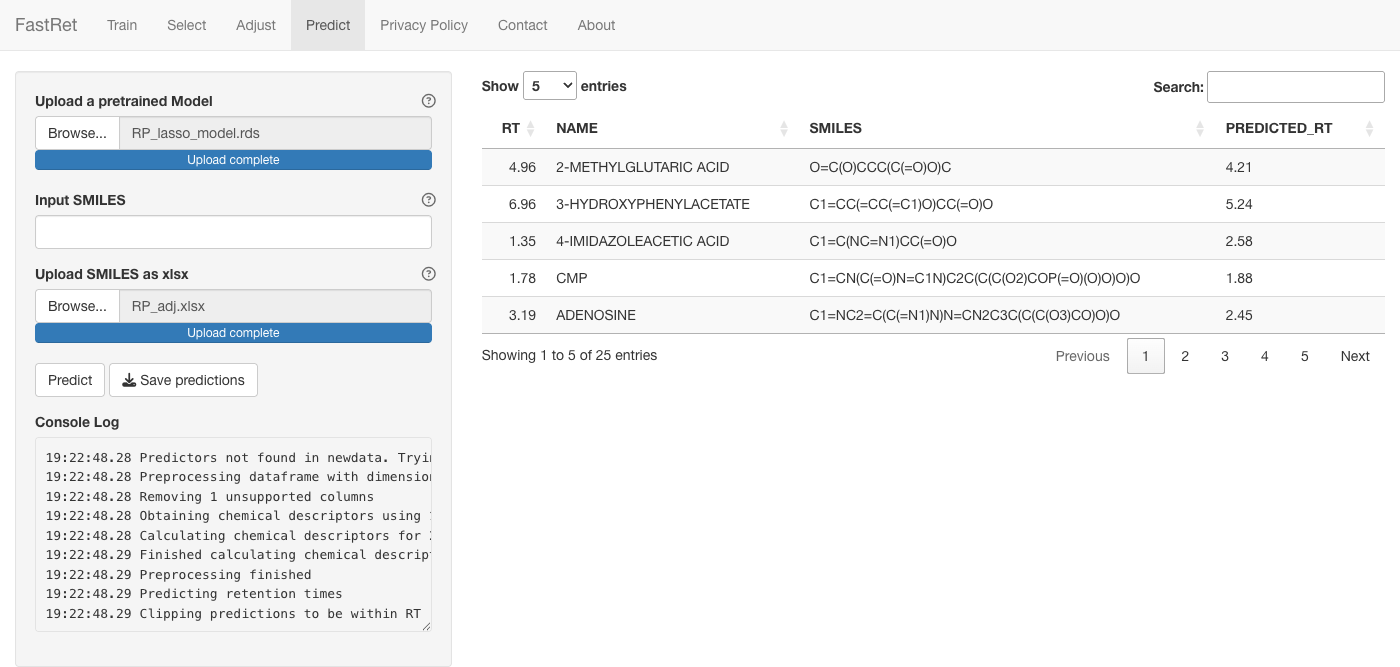
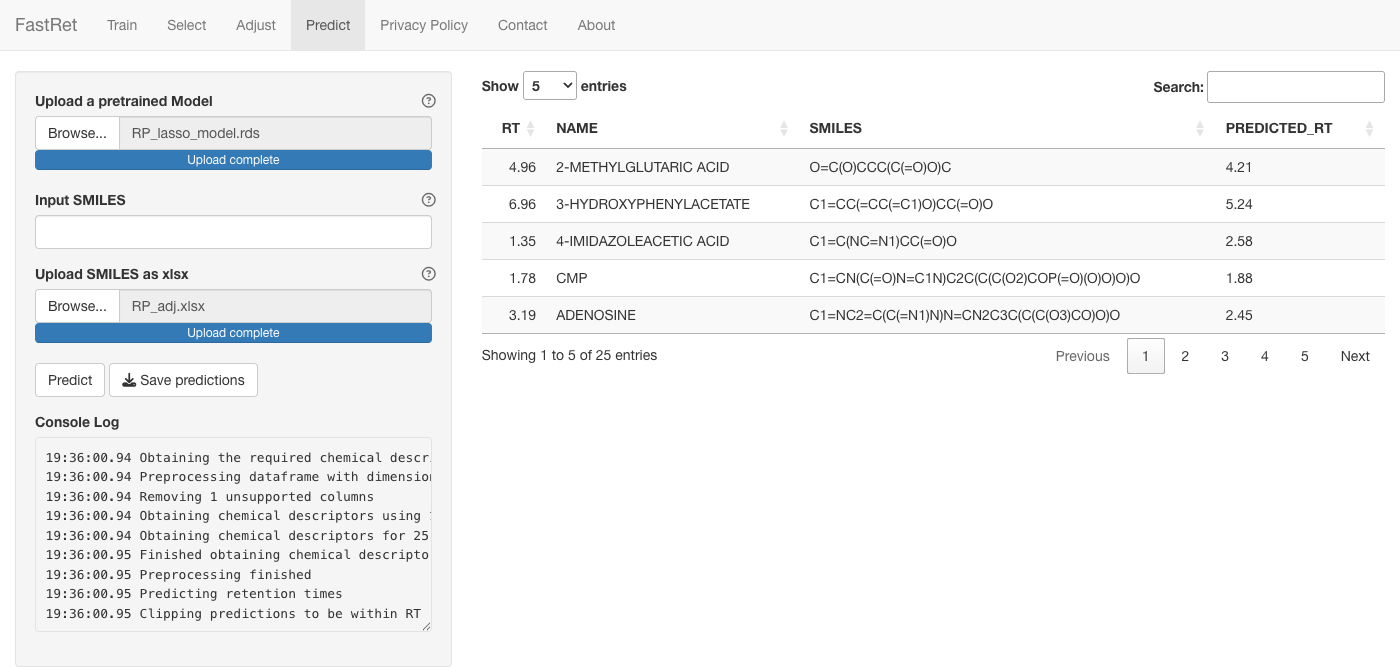
GUI: paper-named SM variants, clearer descriptor logging, polished help texts
- Selective Measuring variants now use the paper names (SMmax, SM1, SM0, SMinf),
  and the variant info button explains each one.
- Reword the descriptor logging so a cached prediction no longer looks like a
  recomputation: predict.frm says "Obtaining the required chemical descriptors
  from the provided SMILES", and getCDs logs "Obtaining"/"Finished obtaining"
  (the "Computing CDs for N new SMILES" line still appears only when rCDK
  actually runs).
- Review all GUI help texts: friendlier wording (drop "you must"/"has to be"),
  fix mismatched HTML headings, format the R snippet and column names as code,
  and fix typos (including the "adustment" file-input label).
- Update the GUI-Usage vignette and screenshots accordingly.

Changed region(s): [[0.0614, 0.6597, 0.3071, 0.9295], [0.1843, 0.6597, 0.3071, 0.6897]]

diff --git a/NEWS.md b/NEWS.md
@@ -57,9 +57,14 @@ GUI:
    console logs" checkboxes were removed), including a new console-log box for
    *Selective Measuring*.
 
-6. The *Selective Measuring* tab now exposes the selection variant (the `rt_coef`
-   weighting of retention time) and the random seed, so users can pick the
-   variant and reproduce a selection from the GUI.
+6. The *Selective Measuring* tab now exposes the selection variant (named as in
+   the paper: SMmax, SM1, SM0, SMinf, with an info button explaining each) and
+   the random seed, so users can pick the variant and reproduce a selection from
+   the GUI.
+
+7. Reviewed the GUI help texts for clarity, tone and formatting, and reworded the
+   prediction console output so it no longer implies that descriptors are
+   recomputed when they are served from the cache.
 
 Testing:
 
